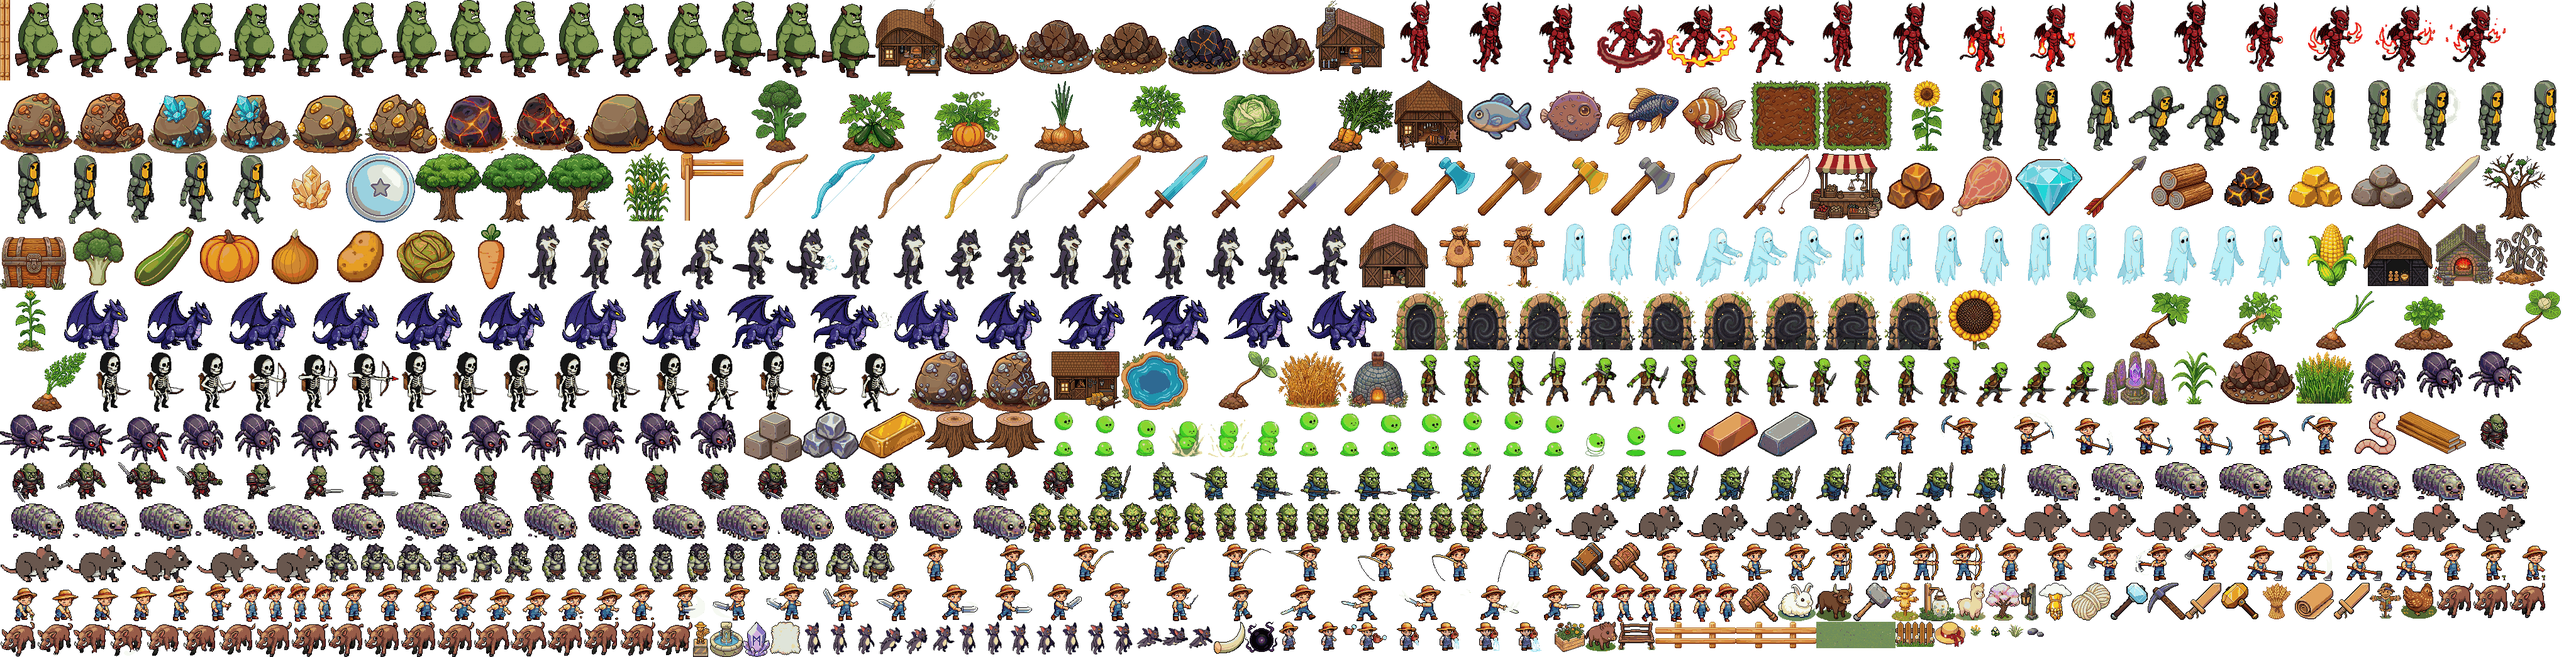
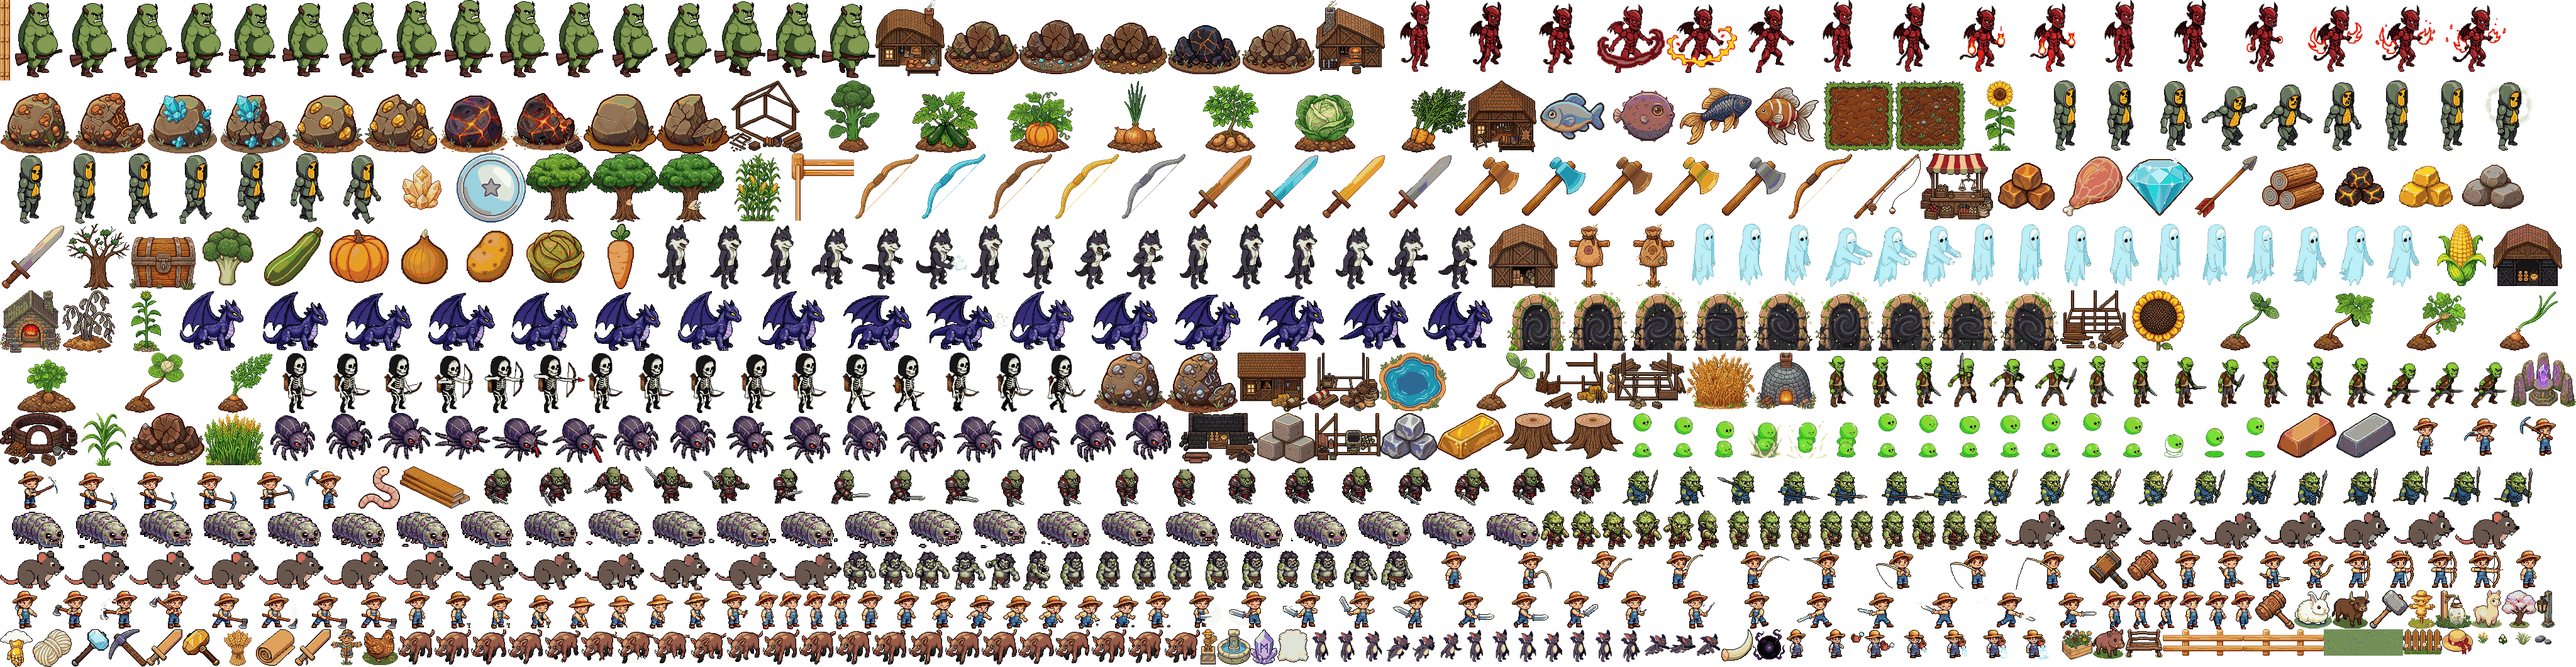
deploy mié 12/08/2026 19:37:31,97

diff --git a/public/game/farm.js b/public/game/farm.js
@@ -174,8 +174,12 @@ class FarmScene extends Phaser.Scene {
       const texKey = this.textures.exists(o.key) ? o.key : "store";   // respaldo si falta el arte (p.ej. horno.png aún no bajado)
       const s = (o.key === "portal" ? this.add.sprite(cx, by, texKey) : this.add.image(cx, by, texKey)).setOrigin(0.5, 1);
       if (o.key === "portal" && this.anims.exists("portal_spin")) s.play("portal_spin");
-      // edificios sin construir (viernes 1): en sombra/difuminados hasta pagar la receta
-      if (typeof BUILD_DEF !== "undefined" && BUILD_DEF[o.type] && !(G.built && G.built[o.type])) s.setAlpha(0.5).setTint(0x555555);
+      // edificios sin construir: la OBRA con cimientos y materiales (12/8). Antes era el
+      // edificio terminado en gris apagado; el gris queda de respaldo si falta el arte (altar).
+      if (typeof BUILD_DEF !== "undefined" && BUILD_DEF[o.type] && !(G.built && G.built[o.type])) {
+        if (this.textures.exists("build_" + o.type)) s.setTexture("build_" + o.type);
+        else s.setAlpha(0.5).setTint(0x555555);
+      }
       // viernes (2): árboles y piedras bloqueados (1 activo + resto difuminado, se desbloquean en orden)
       let lockIdx = -1;
       if (o.type === "tree") lockIdx = __treeN++;
@@ -811,7 +815,12 @@ class FarmScene extends Phaser.Scene {
         if (!canAfford(b.cost)) { toast("Te faltan materiales para construir"); return; }
         if (b.golden && G.golden < b.golden) { toast("Te falta $Golden (" + b.golden + ")"); return; }
         payCost(b.cost); if (b.golden) G.golden -= b.golden; G.built[o.type] = true;
-        if (o.sprite) { o.sprite.setAlpha(1); o.sprite.clearTint(); }
+        if (o.sprite) {
+          // de la OBRA al edificio terminado (12/8), con su lluvia de estrellas
+          if (this.textures.exists(o.baseKey) && o.sprite.texture.key !== o.baseKey) { o.sprite.setTexture(o.baseKey); o.sprite.setScale(o.rw / o.sprite.width); }
+          o.sprite.setAlpha(1); o.sprite.clearTint();
+          if (this.estrellasFx) this.estrellasFx(o.cx, o.by - (o.sprite.displayHeight || 60) * 0.5);
+        }
         this.tintarNodo(o);
         if (typeof tutoEvent === "function") tutoEvent("build_" + o.type);
         addXp("crafting", 20); log("¡Construiste " + b.label + "!", "gold"); toast("¡" + b.label + " construida!");
@@ -1217,7 +1226,11 @@ class FarmScene extends Phaser.Scene {
   // que siempre gana. Hay que llamarlo cada vez que algo hace clearTint() sobre el nodo.
   tintarNodo(o) {
     const s = o && o.sprite; if (!s || !s.setTint) return;
-    if (o.locked || (typeof BUILD_DEF !== "undefined" && BUILD_DEF[o.type] && !(G.built && G.built[o.type]))) { s.setTint(0x555555); return; }
+    if (o.locked || (typeof BUILD_DEF !== "undefined" && BUILD_DEF[o.type] && !(G.built && G.built[o.type]))) {
+      // la OBRA (build_*) se ve a todo color; el gris es solo para bloqueados/sin arte de obra (12/8)
+      if (!(s.texture && String(s.texture.key).indexOf("build_") === 0)) s.setTint(0x555555);
+      return;
+    }
     const t = (NODO_TINTE && (o.type === "ore" || o.type === "rock") && GF.ORE_TINTE) ? GF.ORE_TINTE[o.ore || "piedra"] : null;
     if (t && t !== 0xffffff) s.setTint(t); else s.clearTint();
   }

diff --git a/public/game/boot.js b/public/game/boot.js
@@ -65,6 +65,8 @@ class BootScene extends Phaser.Scene {
     L.push(["cofre", P + "cofre.png"]);   // cofre depósito
     L.push(["skin_sombrero", P + "skin_sombrero.png"]);   // Sombrero de paja brillante (skin del cofre 10/8); si falta, hay respaldo por código
     L.push(["godhand", P + "godhand.png"]);   // GOD HAND 2.0 (11/8): el arte NFT del cropper
+    // edificios EN OBRA (12/8): lo que se ve antes de construirlos (chau edificio gris)
+    ["market","barn","store","cocina","establo","curtiduria","ofrendas","horno"].forEach(k => L.push(["build_" + k, P + "build_" + k + ".png"]));
     L.push(["withered", P + "withered.png?v=2"]);      // cultivo marchito cozy
     // etapas intermedias (la verdura asomando al 50% del crecimiento)
     if (typeof CROP_ORDER !== "undefined") CROP_ORDER.forEach(k => L.push(["cropm_" + k, P + "cropm_" + k + ".png?v=3"]));
@@ -120,8 +122,8 @@ class BootScene extends Phaser.Scene {
   preload() {
     // ATLAS: todos los sprites del mundo en 2 archivos (mucho más liviano para el server free).
     // Si el atlas no llega, ensureAll() baja los archivos sueltos como respaldo.
-    this.load.image("__atlas", "assets/atlas.png?v=37");
-    this.load.json("__atlasmap", "assets/atlas.json?v=37");
+    this.load.image("__atlas", "assets/atlas.png?v=38");
+    this.load.json("__atlasmap", "assets/atlas.json?v=38");
 
     // No hay barra propia: la pantalla de carga es UNA sola, la del HTML, y le pasamos el avance.
     // (Antes había dos barras seguidas y el juego "aparecía" antes de estar listo.)

diff --git a/public/index.html b/public/index.html
@@ -6,8 +6,8 @@
 <title>Golden Farm</title>
 <!-- El atlas es lo más pesado del juego (386 KB con 329 sprites). Se empieza a bajar YA,
      en paralelo con el login y la carga de la partida, en vez de esperar a que Phaser arranque. -->
-<link rel="preload" as="image" href="assets/atlas.png?v=37">
-<link rel="preload" as="fetch" href="assets/atlas.json?v=37" crossorigin>
+<link rel="preload" as="image" href="assets/atlas.png?v=38">
+<link rel="preload" as="fetch" href="assets/atlas.json?v=38" crossorigin>
 <link rel="preconnect" href="https://cdn.jsdelivr.net" crossorigin>
 <link rel="preconnect" href="https://eusxpsmqczmczgyhndtd.supabase.co" crossorigin>
 <style>

diff --git a/tools/build-atlas.py b/tools/build-atlas.py
@@ -31,7 +31,7 @@ BOOT = os.path.join(RAIZ, "public", "game", "boot.js")
 
 # Los iconos de recursos, cultivos, peces y monedas también van al atlas: el juego los
 # usa para el "premio" que sale volando cuando talás, picás o cosechás.
-EXTRA = ["res_", "crop_", "fish_", "coin_", "animal_", "deco_"]
+EXTRA = ["res_", "crop_", "fish_", "coin_", "animal_", "deco_", "build_"]   # build_: edificios en obra (12/8)
 
 # Edificios que antes no tenían arte y por eso nunca entraron al atlas (9/8).
 SUELTOS = ["establo", "curtiduria", "ofrendas", "mazo", "pet_gallina", "skin_sombrero", "godhand"]

diff --git a/CHANGELOG.md b/CHANGELOG.md
@@ -1847,6 +1847,20 @@ Integrado (atlas `?v=37`, 561 sprites):
 Los edificios v3 oscuros (estilo Curtiduría) y el set intermedio quedaron descartados;
 sus PNG duermen en `pixellab_edificios_v3` y `pixellab_edificios_curtiduria`.
 
+### Los edificios "EN OBRA" (misma tarde) — chau edificio gris
+
+Un estado en construcción para cada edificio del set, bien desarmado (nivel aprobado con
+la cocina de prueba): cimientos y parantes, ningún techo, materiales apilados y los
+objetos típicos de cada uno esperando en el piso — el toldo del mercadillo enrollado, el
+yunque sin colocar, las figuras doradas de Ofrendas en un cajón, el primer anillo del
+domo del horno.
+
+**Código**: el edificio sin construir ya no se dibuja gris semitransparente — muestra su
+`build_*` a todo color; al pagar la receta salta al edificio terminado con lluvia de
+estrellitas. El gris queda de respaldo solo para el Altar (sin arte de obra) y los
+árboles/rocas bloqueados. Claves `build_*` en el atlas (`?v=38`, 569 sprites) y con
+respaldo suelto en boot.js.
+
 ---
 
 ## Pendientes conocidos

diff --git a/TODO.md b/TODO.md
@@ -4,7 +4,7 @@
 
 ## 🔴 Inmediato
 
-- [ ] **Deploy** (`deploy.bat`): atlas `?v=37` con el set de edificios "mercadillo" completo (menos el horno, que queda), el árbol nuevo con su talado, y todo lo del 11/8 (mazos, godhand, casilleros de armadura). Todo listo para subir.
+- [ ] **Deploy** (`deploy.bat`): atlas `?v=38` — set "mercadillo" completo (menos horno), árbol + talado, edificios EN OBRA reemplazando al gris, y todo lo del 11/8. Listo para subir.
 - [ ] **Hojas caídas / suelo del talado** como piezas sueltas reutilizables (decisión 12/8: separadas del árbol).
 - [x] ~~Set de edificios estilo mercadillo~~ integrado (12/8) — ver CHANGELOG Día 17.
 - [x] ~~Mazos + God Hand~~ integrados (11/8).
